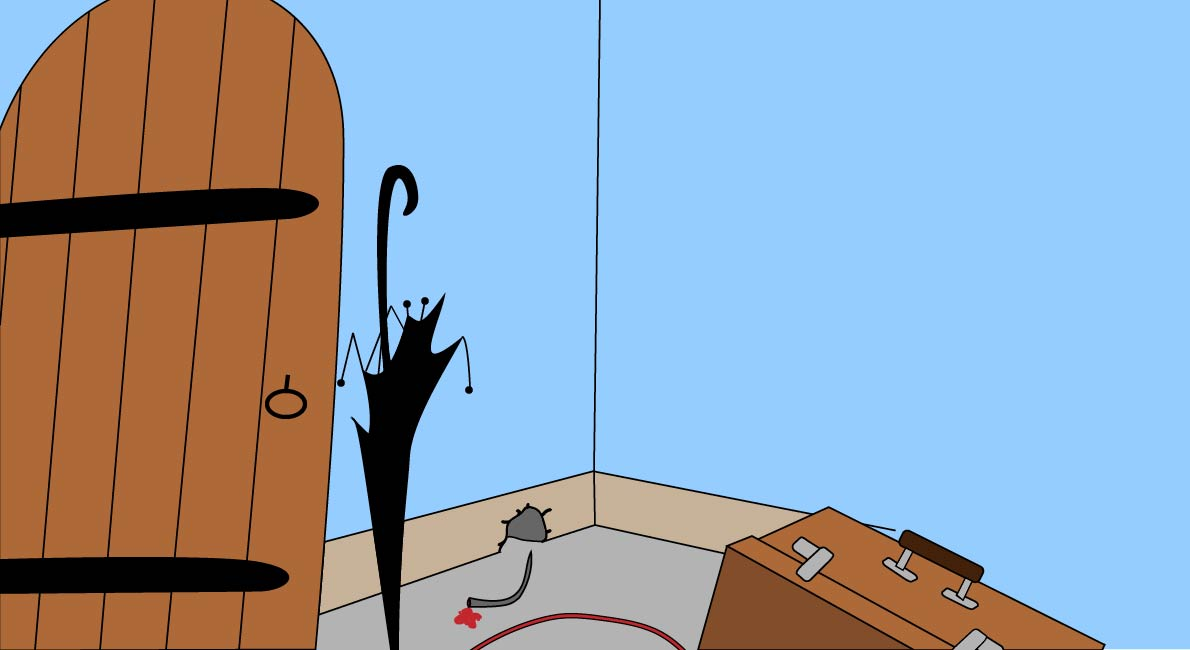
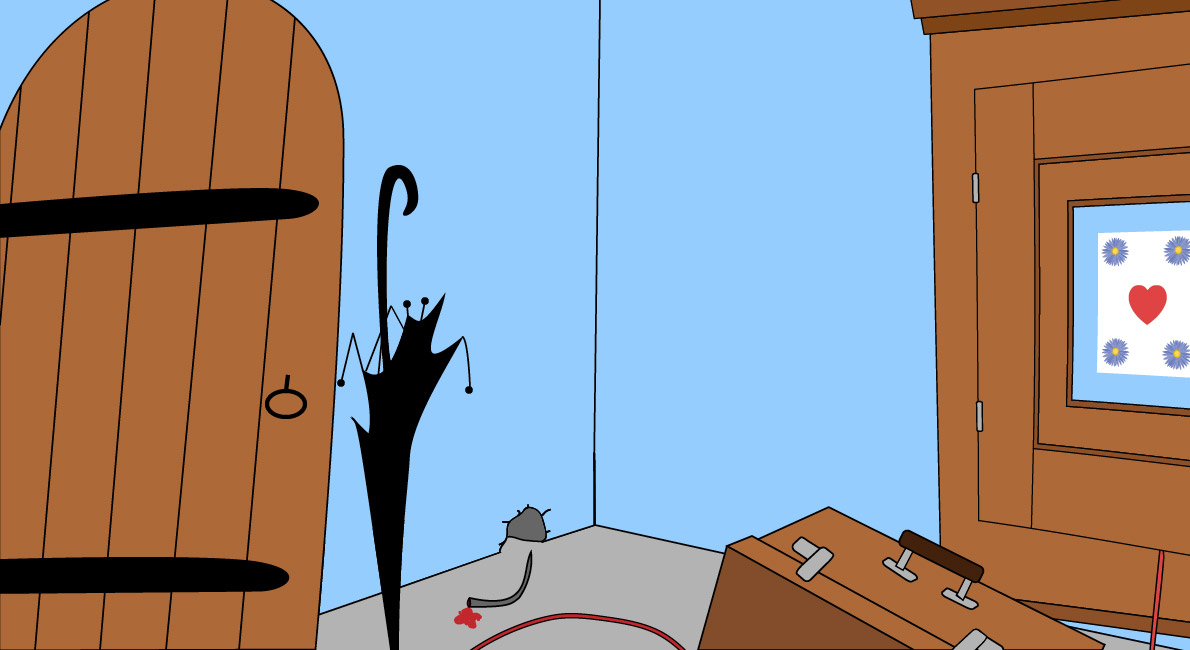
Added the last pictures

diff --git a/Historien/samples/double-page/index.html b/Historien/samples/double-page/index.html
@@ -139,7 +139,7 @@ document.location = "mobile.html";
 					</div><!-- /one-page -->
 				</div><!-- /p-container-->
 			</div>
-			<div class="double" style="background-image:url(../../../images/locker.jpg">
+			<div class="double" style="background-image:url(../../../images/skåp-nyckelhål-01.jpg">
 				<div class="p-container">
 						<div class="one-page text-align-top">
 							<p>Ulltråden går in i skåpet. Om vi skulle försöka kika in genom nyckelhålet! Försiktigt, försiktigt sätter vi ögat intill -- oj det är någon där inne som kikar tillbaka därinne. Ska vi våga oss på att öppna skåpdörren?

diff --git a/Historien/samples/double-page/mobile.html b/Historien/samples/double-page/mobile.html
@@ -118,7 +118,7 @@ document.location = "index.html";
       </div><!-- /section --><!-- /page 18-19 -->
 
       <div class="section">
-        <div class="container bottom" style="background-image:url(../../../images/locker.jpg)">
+        <div class="container bottom" style="background-image:url(../../../images/skåp-nyckelhål-01.jpg)">
 
             <p>Ulltråden går in i skåpet. Om vi skulle försöka kika in genom nyckelhålet! Försiktigt, försiktigt sätter vi ögat intill -- oj det är någon där inne som kikar tillbaka därinne. Ska vi våga oss på att öppna skåpdörren?
             </p>
